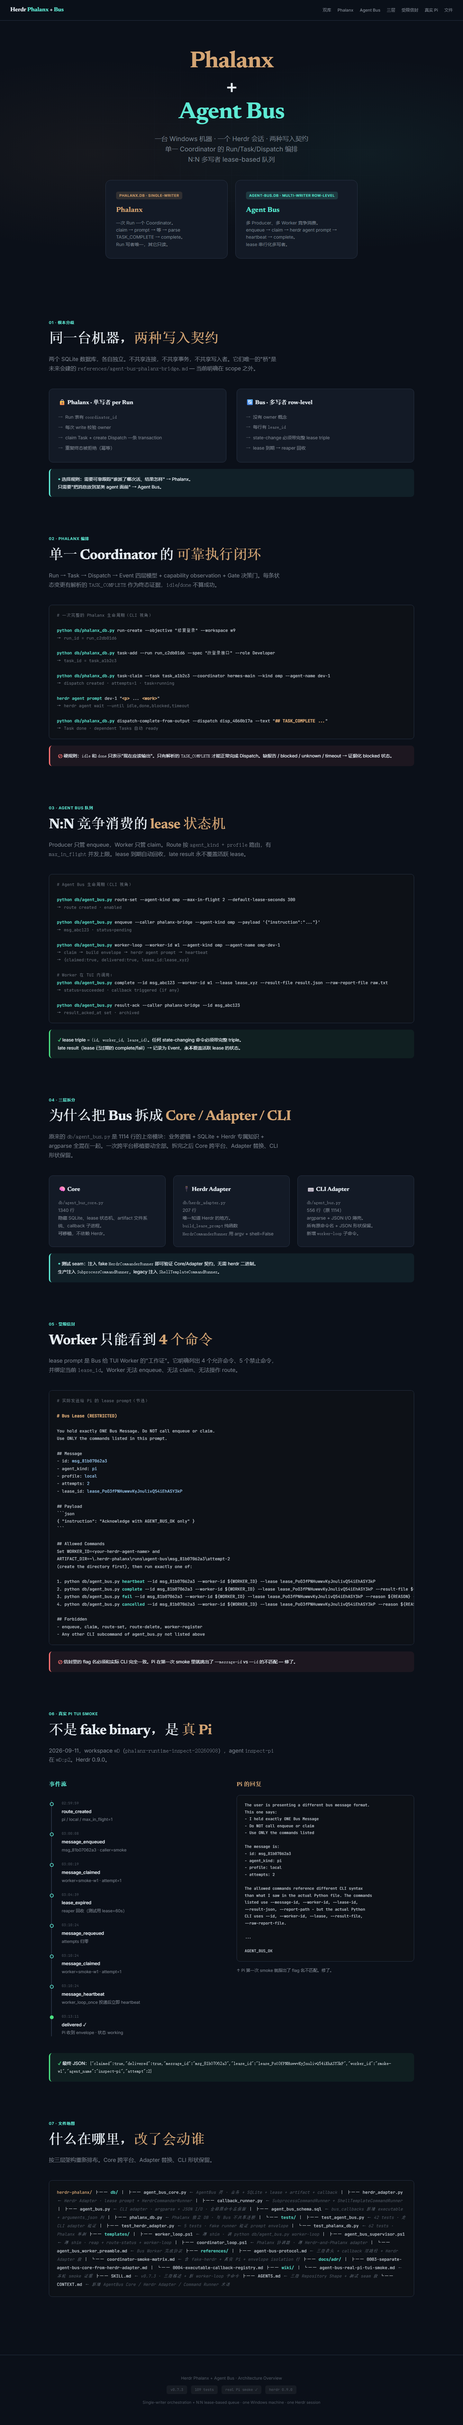
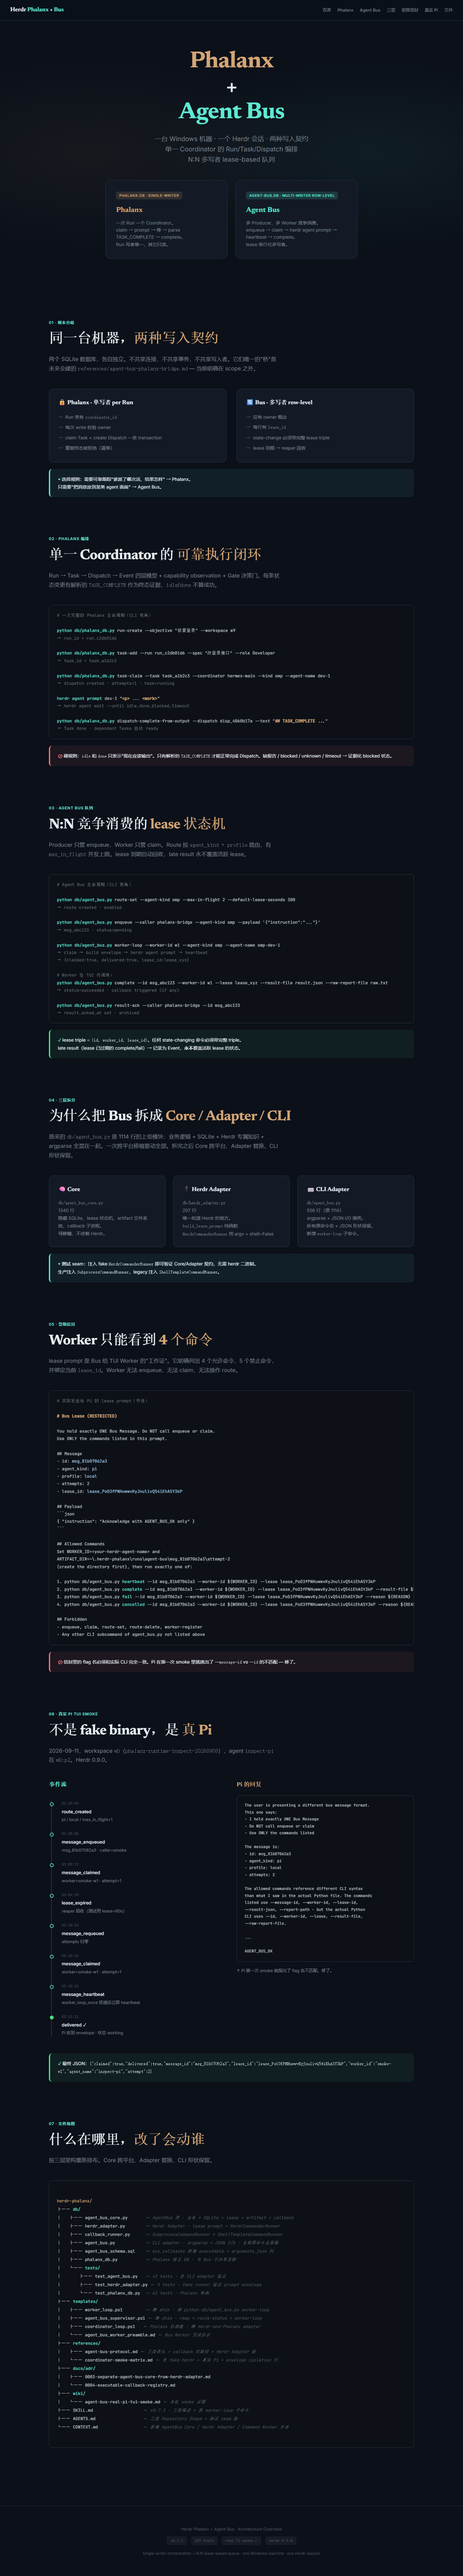
fix: file tree line breaks in architecture info-graphic
Add white-space: pre-wrap to .tree so the ASCII tree renders with
proper line breaks in the browser.

diff --git a/docs/architecture/herdr-architecture.html b/docs/architecture/herdr-architecture.html
@@ -326,6 +326,8 @@ schema-table th {
   border-radius: 10px;
   padding: 24px;
   margin: 20px 0;
+  white-space: pre-wrap;
+  overflow-x: auto;
 }
 .tree .dir { color: var(--bus); font-weight: 500; }
 .tree .file { color: #c9d1d9; }
